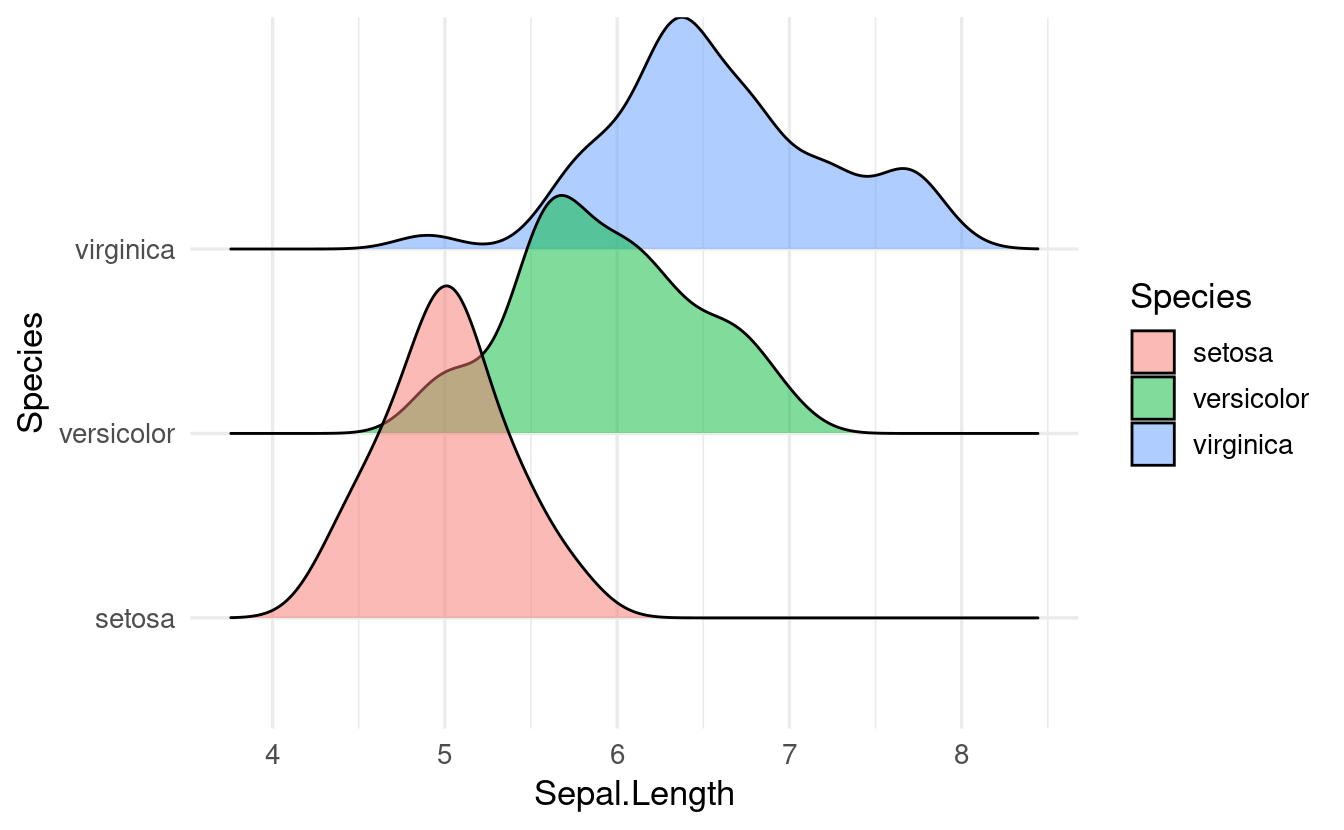
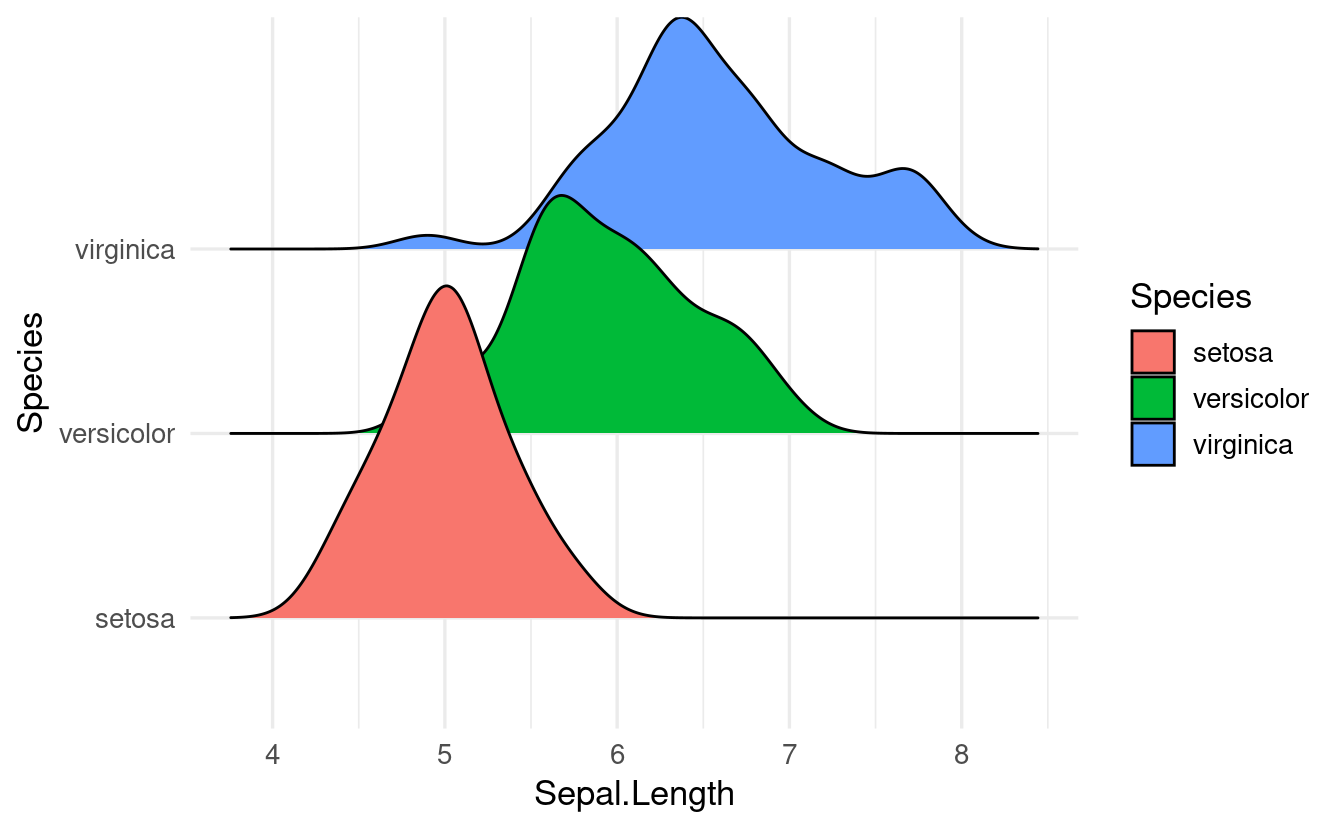
CC S05E09 proofread

Changed region(s): [[0.1875, 0.0301, 0.75, 0.753], [0.8438, 0.3916, 0.875, 0.5723]]

diff --git a/content/codeclub/S05E09/index.md b/content/codeclub/S05E09/index.md
@@ -8,7 +8,7 @@ tags: [codeclub, r4ds]
 date: "2023-03-28"
 lastmod: "2023-03-28"
 toc: true
-rmd_hash: eeea24508fbe0a35
+rmd_hash: 5531fc60bb343a74
 
 ---
 
@@ -266,13 +266,11 @@ Then we can load it and use the ridgeplot geom [`geom_density_ridges()`](https:/
 <span></span>
 <span><span class='nf'><a href='https://ggplot2.tidyverse.org/reference/ggplot.html'>ggplot</a></span><span class='o'>(</span>data <span class='o'>=</span> <span class='nv'>iris</span>,</span>
 <span>       mapping <span class='o'>=</span> <span class='nf'><a href='https://ggplot2.tidyverse.org/reference/aes.html'>aes</a></span><span class='o'>(</span>x <span class='o'>=</span> <span class='nv'>Sepal.Length</span>, y <span class='o'>=</span> <span class='nv'>Species</span>, fill <span class='o'>=</span> <span class='nv'>Species</span><span class='o'>)</span><span class='o'>)</span> <span class='o'>+</span></span>
-<span>  <span class='nf'><a href='https://wilkelab.org/ggridges/reference/geom_density_ridges.html'>geom_density_ridges</a></span><span class='o'>(</span>alpha <span class='o'>=</span> <span class='m'>0.5</span><span class='o'>)</span></span>
+<span>  <span class='nf'><a href='https://wilkelab.org/ggridges/reference/geom_density_ridges.html'>geom_density_ridges</a></span><span class='o'>(</span><span class='o'>)</span></span>
 <span><span class='c'>#&gt; Picking joint bandwidth of 0.181</span></span></code></pre>
 <img src="figs/unnamed-chunk-16-1.png" width="700px" style="display: block; margin: auto;" />
 
 </div>
-
-(Above, we set `alpha` to 0.5 to get medium transparency of the fill colors.)
 
 <br>
 
@@ -356,6 +354,9 @@ Hints (click here)
 -   To set alpha to 0.5, use `geom_density_ridges(alpha = 0.5)`.
 
 </details>
+
+<br>
+
 <details>
 <summary>
 Solution (click here)
@@ -363,7 +364,7 @@ Solution (click here)
 
 <br>
 
--   Making the shapes partially transparent:
+-   Making the shapes partially transparent using `alpha`:
 
 <div class="highlight">
 
@@ -486,6 +487,9 @@ Hints (click here)
 -   To understand what is happening: what would `displ < 5` by itself return? (To directly test this, run `mpg$displ < 5`.)
 
 </details>
+
+<br>
+
 <details>
 <summary>
 Solution (click here)
